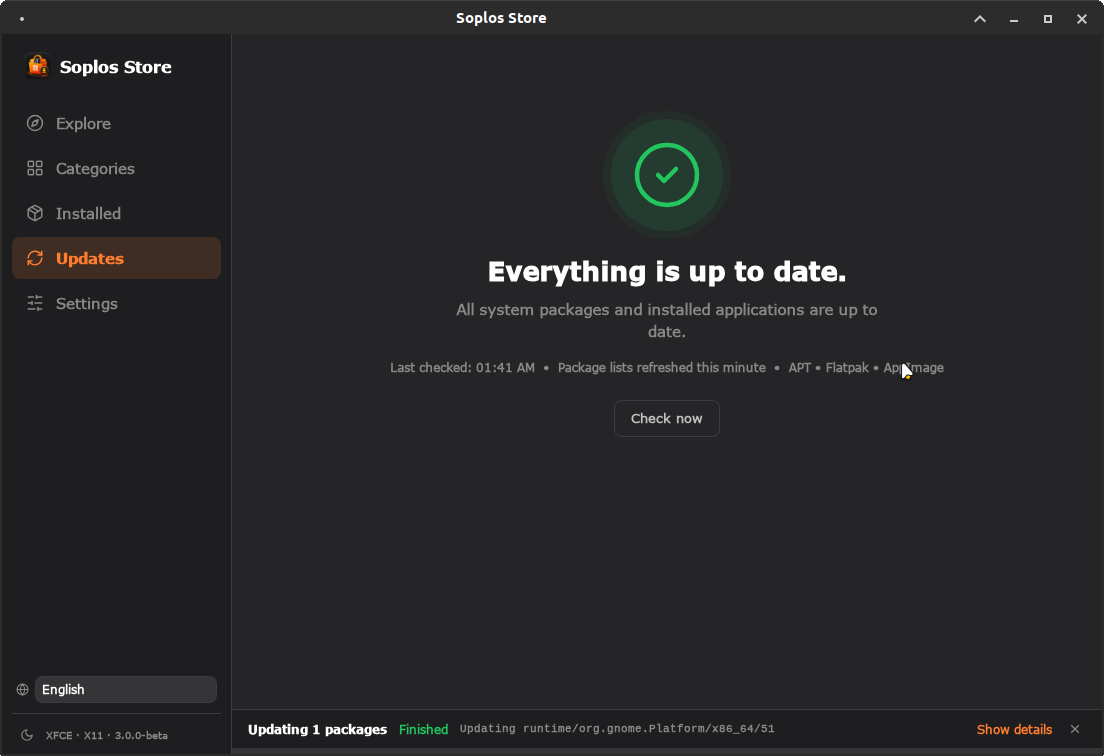
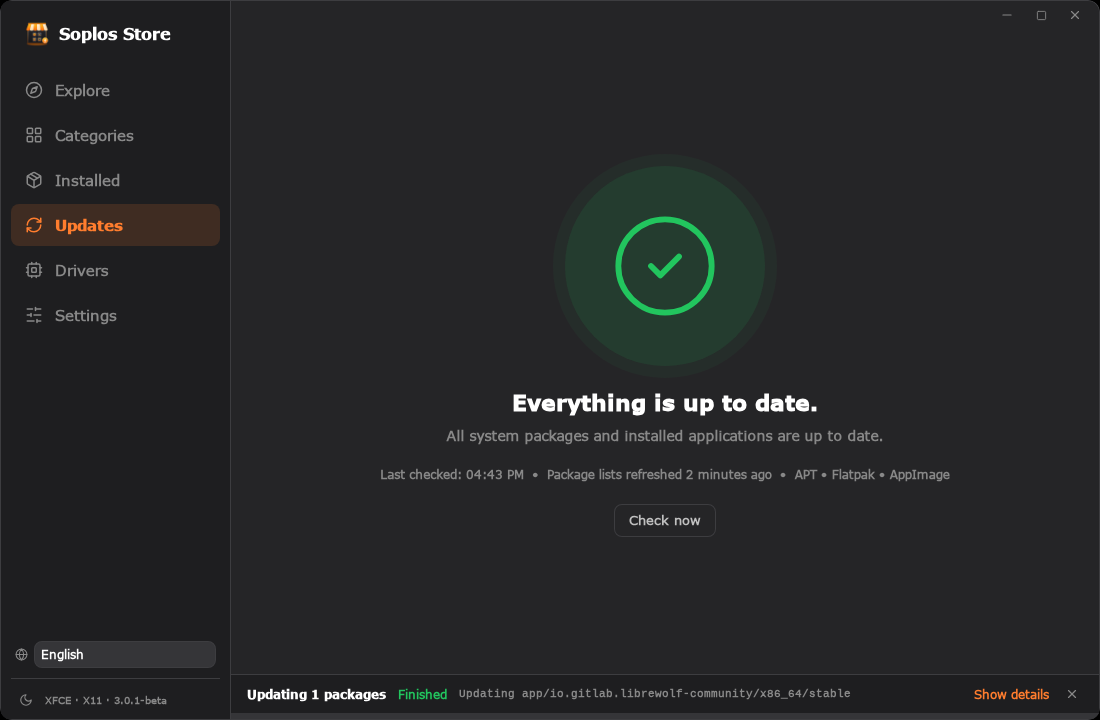
chore: bump Soplos Store to 3.0.1-3-beta

diff --git a/src/lib/driverPages.ts b/src/lib/driverPages.ts
@@ -1,7 +1,7 @@
 import type { ComponentType } from "svelte";
 import {
   AudioWaveform, BatteryCharging, Bluetooth, Boxes, Cable, Camera, Cpu, Disc, Fan, Fingerprint, Gamepad2, Gauge, Keyboard, KeyRound, Laptop, Layers, Lightbulb,
-  Mic, Monitor, Mouse, Network, PenTool, Radio, ScanLine, Server, ShieldCheck, Tablet, Tag, Thermometer, Usb, Video, Wifi, Zap,
+  Mic, Monitor, Mouse, Network, PenTool, Radio, ScanLine, Server, ShieldCheck, Tablet, TabletSmartphone, Tag, Thermometer, Usb, Video, Wifi, Zap,
 } from "lucide-svelte";
 import wacomLogo from "../assets/makers/wacom.svg";
 import xppenLogo from "../assets/makers/xppen.svg";
@@ -160,6 +160,21 @@ export const PAGES: Record<string, DriverPage> = {
           maker("Veikk", PenTool, veikkLogo, "https://veikk.com/pages/download"),
           maker("Ugee", PenTool, ugeeLogo, "https://www.ugee.com/download"), maker("Parblo", PenTool, parbloLogo, "https://github.com/Skrylar/parblo-coast", true),
         ],
+      },
+    ],
+  },
+  // Laptops that fold into a tablet. Every Soplos edition has its own build of
+  // tablet-soplos under the same name, so the repository of the edition the
+  // computer runs serves the right one: rotation sensor plus the on-screen
+  // keyboard that fits that desktop.
+  convertibles: {
+    id: "convertibles",
+    color: "100 120 240",
+    sections: [
+      {
+        id: "tools",
+        titleKey: TOOLS,
+        items: [tool("con-tablet-soplos", "Tablet Soplos", ["tablet-soplos"], "2-IN-1", TabletSmartphone, undefined, { noteKey: "drivers.convertibles.note" })],
       },
     ],
   },

diff --git a/src/views/Drivers.svelte b/src/views/Drivers.svelte
@@ -1,5 +1,5 @@
 <script lang="ts">
-  import { AudioWaveform, BatteryCharging, Cpu, Fan, Fingerprint, Gamepad2, Laptop, Network, PenTool, Printer, ScanLine, Server, Tag, Video, Wifi } from "lucide-svelte";
+  import { AudioWaveform, BatteryCharging, Cpu, Fan, Fingerprint, Gamepad2, Laptop, Network, PenTool, Printer, ScanLine, Server, Tag, TabletSmartphone, Video, Wifi } from "lucide-svelte";
   import { _ } from "svelte-i18n";
   import CategoryCard from "../components/CategoryCard.svelte";
   import DriversGraphics from "./DriversGraphics.svelte";
@@ -15,6 +15,7 @@
     { id: "printers", icon: Printer, color: "0 150 214", brands: "HP · Brother · Canon · Epson · Xerox · Ricoh", ready: true },
     { id: "scanners", icon: ScanLine, color: "0 168 140", brands: "Epson · Canon · Fujitsu · Brother", ready: true },
     { id: "tablets", icon: PenTool, color: "230 70 120", brands: "Wacom · XP-Pen · Huion · Gaomon · Veikk", ready: true },
+    { id: "convertibles", icon: TabletSmartphone, color: "100 120 240", brands: "iio-sensor-proxy · Onboard · Maliit", ready: true },
     { id: "labels", icon: Tag, color: "250 170 0", brands: "Zebra · Dymo · Brother QL · TSC", ready: true },
     { id: "capture", icon: Video, color: "150 90 230", brands: "Elgato · AVerMedia · Blackmagic", ready: true },
     { id: "gaming", icon: Gamepad2, color: "237 60 60", brands: "Logitech · Razer · SteelSeries · Corsair", ready: true },

diff --git a/src/main.ts b/src/main.ts
@@ -3,6 +3,13 @@ import "./styles/global.css";
 import "./i18n";
 import App from "./App.svelte";
 
+// This is a desktop app, not a browser page: the WebKitGTK context menu
+// (Back/Forward/Reload/Inspect) has no place here. Left enabled in dev so
+// devtools stays reachable via right-click while working.
+if (!import.meta.env.DEV) {
+  document.addEventListener("contextmenu", (e) => e.preventDefault());
+}
+
 const app = new App({
   target: document.getElementById("app")!,
 });

diff --git a/CHANGELOG.md b/CHANGELOG.md
@@ -2,6 +2,22 @@
 
 All notable changes to Soplos Store are documented in this file.
 
+## [3.0.1-3-beta] - 2026-11-04
+
+### Added
+
+- New page in Drivers, 2-in-1 laptops: it installs `tablet-soplos`, which every Soplos edition has in its own repository with the screen rotation by the accelerometer and the on-screen keyboard that fits its desktop.
+
+### Changed
+
+- The manual page describes the Drivers section, the sources and the theme in Settings, and the Updates page, and lists the new 2-in-1 laptops page.
+- New screenshot of the Updates page when everything is up to date.
+
+### Fixed
+
+- The context menu of the web engine (Back, Forward, Reload, Inspect) no longer opens on a right click in the installed program. It stays available while the program is run for development.
+- The application metadata points to the launcher that the package installs, `soplos-store.desktop`.
+
 ## [3.0.1-2-beta] - 2026-10-29
 
 ### Changed

diff --git a/README.md b/README.md
@@ -1,6 +1,6 @@
 # Soplos Store 3.0
 
-![Version](https://img.shields.io/badge/version-3.0.1--2--beta-blue)
+![Version](https://img.shields.io/badge/version-3.0.1--3--beta-blue)
 ![License](https://img.shields.io/badge/license-GPL--3.0--or--later-green)
 ![Platform](https://img.shields.io/badge/platform-Linux-lightgrey)
 ![Tauri](https://img.shields.io/badge/Tauri-2-orange)
